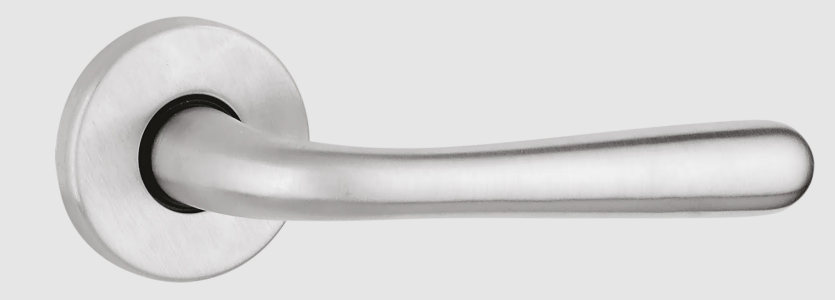
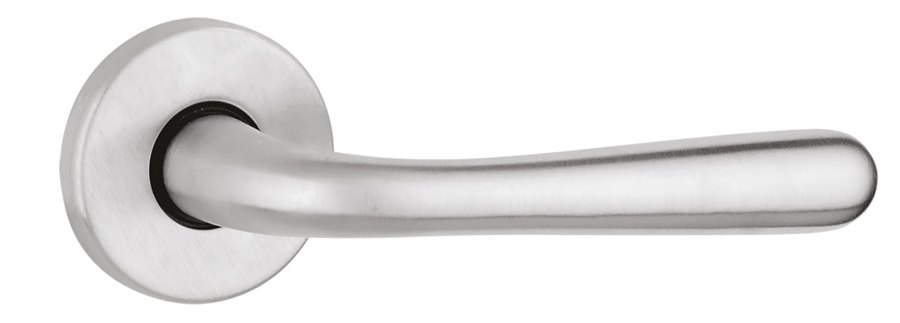
Add Angolo finishes from catalog PDF; unify photo backgrounds
Add the Angolo handle photos for all five finishes (oro satinato, bronzo,
effetto cromo satinato, nero opaco, bianco opaco), extracted from the
catalog PDF, with supplier Ital Linea. Normalize every product photo to a
clean white background (flood-fill from the borders, preserving metal
highlights) and drop the image drop-shadow so handles sit seamlessly on a
white media tile.

Claude-Session: https://claude.ai/code/session_01SYbLEHrHDazYs6QDy6pjsm

diff --git a/src/Catalogo.jsx b/src/Catalogo.jsx
@@ -9,6 +9,11 @@ import gocciaCromoLuc from './assets/prodotti/goccia-cromo-lucido.jpg';
 import gocciaOttoneLuc from './assets/prodotti/goccia-ottone-lucido.jpg';
 import quadraCromoSat from './assets/prodotti/quadra-cromo-satinato.jpg';
 import quadraCromoLuc from './assets/prodotti/quadra-cromo-lucido.jpg';
+import angoloOroSat from './assets/prodotti/angolo-oro-satinato.jpg';
+import angoloBronzo from './assets/prodotti/angolo-bronzo.jpg';
+import angoloEffCromoSat from './assets/prodotti/angolo-effetto-cromo-satinato.jpg';
+import angoloNeroOpaco from './assets/prodotti/angolo-nero-opaco.jpg';
+import angoloBiancoOpaco from './assets/prodotti/angolo-bianco-opaco.jpg';
 
 const CATEGORIES = [
   { id: '01', nome: 'Maniglie per porte e per finestre', attiva: true },
@@ -43,7 +48,14 @@ const PRODUCTS = [
     { codice: '168201B05', finitura: 'Cromo satinato', versione: 'Patent' },
     { codice: '168201B04', finitura: 'Cromo lucido', versione: 'Patent' },
     { codice: '168201B01', finitura: 'Ottone lucido', versione: 'Patent' } ] },
-  { id: 3, categoria: '01', nome: 'Angolo', materiale: 'Alluminio', sottocategoria: 'Maniglie per porte', dimensioni: '144x50mm', fornitore: 'Generico', varianti: [
+  { id: 3, categoria: '01', nome: 'Angolo', materiale: 'Alluminio', sottocategoria: 'Maniglie per porte', dimensioni: '144x50mm', fornitore: 'Ital Linea',
+    immagini: {
+      'Oro satinato': angoloOroSat,
+      'Bronzo': angoloBronzo,
+      'Effetto cromo satinato': angoloEffCromoSat,
+      'Nero opaco': angoloNeroOpaco,
+      'Bianco opaco': angoloBiancoOpaco
+    }, varianti: [
     { codice: '448RB0880COS', finitura: 'Oro satinato', versione: 'Patent' },
     { codice: '448RB0880CBR', finitura: 'Bronzo', versione: 'Patent' },
     { codice: '448RB0880CCS', finitura: 'Effetto cromo satinato', versione: 'Patent' },

diff --git a/src/Catalogo.css b/src/Catalogo.css
@@ -102,8 +102,8 @@ body { margin: 0; background: var(--paper); color: var(--ink); font-family: var(
 .cat .card { display: flex; flex-direction: column; background: var(--paper); border: 1px solid var(--line); border-radius: 10px; overflow: hidden; box-shadow: var(--shadow); transition: transform 0.25s cubic-bezier(0.2,0.7,0.2,1), box-shadow 0.25s, border-color 0.25s; animation: catrise 0.5s cubic-bezier(0.2,0.7,0.2,1) both; }
 .cat .card:hover { transform: translateY(-3px); box-shadow: var(--shadow-hover); border-color: var(--navy); }
 @keyframes catrise { from { opacity: 0; transform: translateY(14px); } to { opacity: 1; transform: translateY(0); } }
-.cat .media { position: relative; aspect-ratio: 4/3; background: radial-gradient(130% 100% at 50% 25%, var(--tile), var(--tile-edge) 88%); display: flex; align-items: center; justify-content: center; overflow: hidden; border-bottom: 1px solid var(--line-soft); }
-.cat .media img { max-width: 80%; max-height: 80%; object-fit: contain; filter: drop-shadow(0 12px 14px rgba(10,20,40,0.18)); transition: transform 0.4s cubic-bezier(0.2,0.7,0.2,1); }
+.cat .media { position: relative; aspect-ratio: 4/3; background: #ffffff; display: flex; align-items: center; justify-content: center; overflow: hidden; border-bottom: 1px solid var(--line-soft); }
+.cat .media img { max-width: 86%; max-height: 86%; object-fit: contain; transition: transform 0.4s cubic-bezier(0.2,0.7,0.2,1); }
 .cat .card:hover .media img { transform: scale(1.04); }
 .cat .media .ghost { width: 52%; height: 52%; opacity: 0.42; }
 .cat .media .ghost path, .cat .media .ghost circle { stroke: var(--navy); fill: none; stroke-width: 1.5; }
